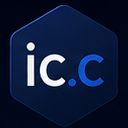
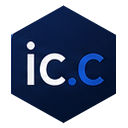
Step N16c: transparent background, and the edge is computed rather than drawn
Two requirements pulling against each other: keep the plate's light-and-shade
gradient, which lives inside the plate, and make the edge neat on any background,
which means cutting the silhouette exactly or it fringes.

Pillow has no rounded polygon, and the usual substitute -- fill an inset polygon,
then stroke it with a round-jointed pen -- leaves a visible notch at the top apex
where the stroke closes. That is the same artefact that wrecked N16's geometric
rebuild, and it reappeared here in completely different code before being
recognised.

An analytic signed distance field has no seam: six half-planes, each eroded by
the corner radius and the whole dilated by the same amount, so edges stay where
the artwork puts them and only corners round. Coverage is 0.5 - distance, one
pixel of linear ramp across the boundary -- anti-aliasing without supersampling.

Geometry measured from luminance profiles across each edge: plate 109 x 121.5,
centre (634.5, 82.25), aspect 0.897 -- wider than a regular hexagon's 0.866, and
the mask matches that rather than idealising it. INSET=2.0 exists because the
outermost plate pixels are already blended with the black field; including them
leaves a dark rim on a light background.

Verified numerically, because "looks neat" is not a check: 0 near-black edge
pixels, mean edge colour (8,28,68) which is plate navy, corner alpha all zero,
and ~30 pixels in each of six partial-alpha buckets, i.e. a real ramp. Three
[…]

diff --git a/eng/make-icon.py b/eng/make-icon.py
@@ -1,0 +1,89 @@
+#!/usr/bin/env python3
+"""Cut the package icon out of the banner artwork.
+
+    python eng/make-icon.py        # writes docs/assets/icon.png
+
+WHY A CROP AND NOT A REDRAW. Two earlier attempts failed and both are worth knowing about. Scaling
+the 94x104 hexagon out of the original 185x164 draft up to 128 is a 1.23x upscale and looks like
+one. Rebuilding the mark from primitives -- it is only a hexagon, two arcs, three circles and a
+stem -- produced a spike at the apex and misplaced lettering; it would have been a reconstruction
+of intent from 94 pixels rather than the design.
+
+`docs/assets/infocarrier-core-banner.png` is 1774x887 and carries a better variant of the mark at
+109x121.5 (note its `i` dot is WHITE, where the draft's is blue). A 128x128 crop around it involves
+NO RESAMPLING AT ALL, which is the only way to be sure the icon is as sharp as the source.
+
+WHY THE MASK IS COMPUTED RATHER THAN DRAWN. The plate carries a light-to-shade gradient that has to
+survive, so only the silhouette may be cut. Pillow has no rounded polygon, and the usual trick --
+fill an inset polygon, then stroke it with a round-jointed pen -- leaves a visible notch where the
+stroke closes, at the top apex. An analytic signed distance field has no seam: erode every edge by
+the corner radius and dilate by the same amount, and the edges stay put while the corners round.
+
+The numbers below were measured off the banner from luminance profiles across each edge, not
+guessed. INSET exists because the outermost pixel of the plate is already blended with the black
+field behind it; taking it would leave a dark fringe.
+"""
+
+import math
+import os
+
+from PIL import Image
+
+BANNER = os.path.join("docs", "assets", "infocarrier-core-banner.png")
+OUT = os.path.join("docs", "assets", "icon.png")
+
+CX, CY = 634.5, 82.25      # plate centre in the banner
+W, H = 109.0, 121.5        # plate size; aspect 0.897, a little wider than a regular hexagon
+BOX = (571, 18, 699, 146)  # the 128x128 crop, chosen so the plate lands centred
+INSET = 2.0                # keep clear of the pixel already blended with the background
+RADIUS = 16.0              # corner rounding, matched to the artwork
+SIZE = 128                 # what nuget.org recommends
+
+
+def hexagon(cx, cy, w, h):
+    """Pointy-top hexagon: a vertex top and bottom, vertical left and right sides."""
+    return [(cx, cy - h / 2), (cx + w / 2, cy - h / 4), (cx + w / 2, cy + h / 4),
+            (cx, cy + h / 2), (cx - w / 2, cy + h / 4), (cx - w / 2, cy - h / 4)]
+
+
+def half_planes(pts):
+    """Outward unit normal and offset per edge, which is all a convex SDF needs."""
+    cx = sum(p[0] for p in pts) / len(pts)
+    cy = sum(p[1] for p in pts) / len(pts)
+    out = []
+    for i in range(len(pts)):
+        (x0, y0), (x1, y1) = pts[i], pts[(i + 1) % len(pts)]
+        nx, ny = (y1 - y0), -(x1 - x0)
+        n = math.hypot(nx, ny)
+        nx, ny = nx / n, ny / n
+        if nx * (cx - x0) + ny * (cy - y0) > 0:
+            nx, ny = -nx, -ny
+        out.append((nx, ny, nx * x0 + ny * y0))
+    return out
+
+
+def main():
+    banner = Image.open(BANNER).convert("RGB")
+    crop = banner.crop(BOX)
+    assert crop.size == (SIZE, SIZE), crop.size
+
+    planes = half_planes(hexagon(CX - BOX[0], CY - BOX[1], W - 2 * INSET, H - 2 * INSET))
+
+    alpha = Image.new("L", (SIZE, SIZE), 0)
+    ap = alpha.load()
+    for y in range(SIZE):
+        for x in range(SIZE):
+            px, py = x + 0.5, y + 0.5
+            distance = max(nx * px + ny * py - (d - RADIUS) for nx, ny, d in planes) - RADIUS
+            # 0.5 - distance gives one pixel of linear coverage across the boundary: an
+            # anti-aliased edge without supersampling anything.
+            ap[x, y] = int(max(0.0, min(1.0, 0.5 - distance)) * 255)
+
+    icon = crop.convert("RGBA")
+    icon.putalpha(alpha)
+    icon.save(OUT, optimize=True)
+    print(f"{OUT}  {icon.size[0]}x{icon.size[1]}  {os.path.getsize(OUT)} bytes")
+
+
+if __name__ == "__main__":
+    main()

diff --git a/docs/implementation-plan.md b/docs/implementation-plan.md
@@ -1866,3 +1866,45 @@ rather than staying silent about it.
       N10 corrected the documentation to describe.
 
       **Gates: `dotnet pack` clean; icon confirmed inside the nupkg.** No `src/` code, no `test/`.
+
+- [x] **N16c. Transparent background, and the edge is computed rather than drawn.** `<this commit>`
+
+      Two requirements: keep the plate's light-and-shade gradient, and make the edge neat on any
+      background. Those pull against each other — the gradient is *inside* the plate, so only the
+      silhouette may be cut, and the cut has to be exact or it fringes.
+
+      **The obvious mask technique fails, twice over.** Pillow has no rounded polygon. The usual
+      substitute — fill an inset polygon, then stroke it with a round-jointed pen — leaves a
+      **visible notch at the top apex** where the stroke closes. That is the same artefact that
+      wrecked N16's geometric rebuild, and it reappeared here in a completely different piece of
+      code before being recognised.
+
+      **An analytic signed distance field has no seam.** Six half-planes, each eroded by the corner
+      radius and the whole dilated by the same amount: the edges stay exactly where the artwork puts
+      them and only the corners round. Coverage comes out as `0.5 - distance`, which is one pixel of
+      linear ramp across the boundary — anti-aliasing without supersampling.
+
+      **The geometry is measured, not guessed.** Luminance profiles across each edge put the plate
+      at **109 x 121.5**, centred at `(634.5, 82.25)`, aspect **0.897** — wider than a regular
+      hexagon's 0.866, which the mask matches rather than idealises.
+
+      **`INSET = 2.0` is the fringe fix.** The outermost pixels of the plate are already blended
+      with the black field behind them; including them leaves a dark rim on a light background.
+
+      **Verified numerically rather than by eye**, because "looks neat" is not a check:
+
+      | | |
+      |---|---|
+      | opaque edge pixels that are near-black (background bleed) | **0** |
+      | mean edge colour | `(8, 28, 68)` — plate navy, not background |
+      | corner alpha | `0, 0, 0, 0` |
+      | partial-alpha buckets | ~30 pixels in each of six, i.e. a real ramp rather than a hard cut |
+
+      Three candidates were rendered on **both white and near-black** and compared before choosing
+      `INSET=2.0, RADIUS=16`; an icon that only works on one background is half-checked.
+
+      **`eng/make-icon.py` regenerates it**, and its output was confirmed byte-identical to the
+      chosen candidate — so the script is the artwork's source, not a description of it.
+
+      **Gates: `dotnet pack` clean; `icon.png` (20,464 bytes) confirmed inside the nupkg with
+      `<icon>icon.png</icon>`.** No `src/` code, no `test/`.
